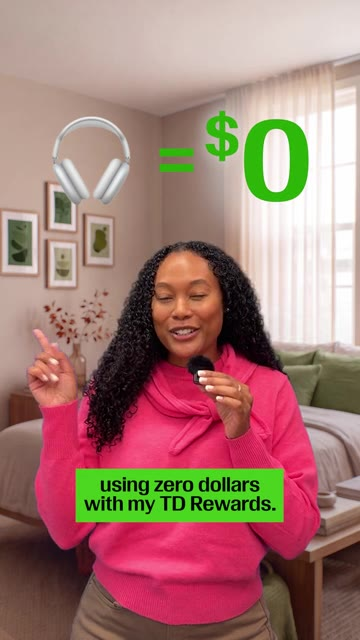
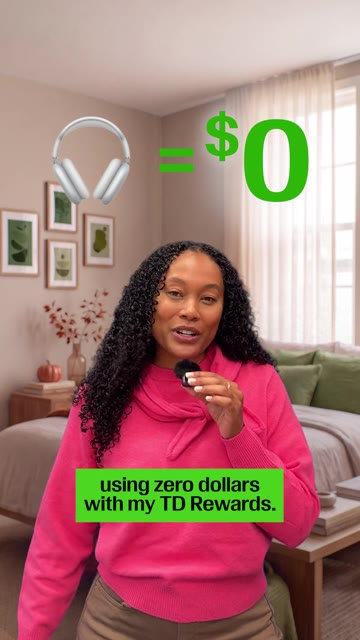
Reorder lead cards; let landscape thumbnails show full width; update Amazon thumbnail to open-eyes frame
Claude-Session: https://claude.ai/code/session_01Dv9JHbGgPAKQqDxBru1XCq

Changed region(s): [[0.0306, 0.375, 0.9167, 1.0]]

diff --git a/index.html b/index.html
@@ -131,33 +131,6 @@
     <div class="work-grid">
       <!-- Work samples. The order here controls the "All" view. data-category must match a filter above. -->
 
-      <article class="work-card work-card--visual" data-category="social">
-        <button class="work-card__open" aria-haspopup="dialog">
-          <span class="work-card__media"><img src="assets/work/td-social-payday-pup.jpg" alt="TD Bank Instagram post: a golden retriever beside a TD Store display with a green TD dog bowl" loading="lazy" /></span>
-          <span class="work-card__body">
-            <span class="work-card__tag">Social</span>
-            <h3 class="work-card__title">TFW it&rsquo;s a payday&hellip;</h3>
-            <p class="work-card__client">TD Bank</p>
-            <p class="work-card__teaser">
-              A brand-voice post that turns a small TD Store perk into a
-              scroll-stopping moment for dog people.
-            </p>
-            <span class="work-card__cue">Learn more →</span>
-          </span>
-        </button>
-
-        <template class="work-card__detail">
-          <figure class="detail__figure"><img src="assets/work/td-social-payday-pup.jpg" alt="TD Bank Instagram post: a golden retriever beside a TD Store display with a green TD dog bowl" /></figure>
-          <p class="detail__meta"><strong>Copywriting:</strong> Susan Rossman</p>
-          <p class="detail__meta"><strong>CD:</strong> Rob Beatson</p>
-          <p class="detail__meta"><strong>Design:</strong> Galina Gonopolsky-Vaisman</p>
-          <p class="detail__meta"><strong>Art Direction:</strong> Gina Comstock &amp; Mark Wills</p>
-          <hr class="detail__rule" />
-          <h4 class="detail__label">Caption</h4>
-          <p>TFW it&rsquo;s a payday&hellip; and your furry friend gets to make a withdrawal too! 🐾 💰 Treat your pup to a doggy biscuit the next time you&rsquo;re in a TD Store — they&rsquo;ve earned it!</p>
-        </template>
-      </article>
-
       <article class="work-card work-card--visual" data-category="print">
         <button class="work-card__open" aria-haspopup="dialog">
           <span class="work-card__media"><img src="assets/work/td-payday-vibes.jpg" alt="TD Bank &lsquo;Payday vibes.&rsquo; poster for TD Early Pay" loading="lazy" /></span>
@@ -186,74 +159,6 @@
           <p>With TD Early Pay, you get paid up to 2 business days early.</p>
           <h4 class="detail__label">Tagline</h4>
           <p class="detail__line">More human.</p>
-        </template>
-      </article>
-
-      <article class="work-card work-card--visual" data-category="script">
-        <button class="work-card__open" aria-haspopup="dialog">
-          <span class="work-card__media"><img src="assets/work/td-video-hbcu.jpg" alt="Video still of two HBCU students for a TD Bank social-impact film" loading="lazy" /></span>
-          <span class="work-card__body">
-            <span class="work-card__tag">Video</span>
-            <h3 class="work-card__title">HBCUs: Inspiring excellence in the classroom &mdash; and beyond</h3>
-            <p class="work-card__client">TD Bank</p>
-            <p class="work-card__teaser">
-              A film on why TD supports — and recruits from — Historically Black
-              Colleges and Universities.
-            </p>
-            <span class="work-card__cue">Learn more →</span>
-          </span>
-        </button>
-
-        <template class="work-card__detail">
-          <figure class="detail__figure"><img src="assets/work/td-video-hbcu.jpg" alt="Video still of two HBCU students for a TD Bank social-impact film" /></figure>
-          <p class="detail__meta"><strong>Copywriting:</strong> Susan Rossman</p>
-          <p class="detail__meta"><strong>Creative Direction:</strong> Swati Prasad, Rob Beatson</p>
-          <p class="detail__meta"><strong>Design:</strong> Sipha Say</p>
-          <p class="detail__meta"><strong>Video:</strong> Nick Choo, Gene Kang, Ben Marcus</p>
-          <hr class="detail__rule" />
-          <h4 class="detail__label">Title</h4>
-          <p class="detail__line">HBCUs: Inspiring excellence in the classroom &mdash; and beyond</p>
-          <h4 class="detail__label">Copy</h4>
-          <p>Every day, Historically Black Colleges and Universities set the stage for students like Damaal and Traquel. See firsthand why we continue to support&mdash;and recruit from&mdash;HBCUs across the country.</p>
-          <div class="detail__video">
-            <video controls preload="metadata" poster="assets/work/td-video-hbcu.jpg">
-              <source src="assets/work/hbcu-film.mp4" type="video/mp4" />
-              Your browser doesn&rsquo;t support embedded video.
-              <a href="assets/work/hbcu-film.mp4">Download the film</a> instead.
-            </video>
-          </div>
-        </template>
-      </article>
-
-      <article class="work-card work-card--visual" data-category="script">
-        <button class="work-card__open" aria-haspopup="dialog">
-          <span class="work-card__media"><img src="assets/work/td-video-complete-checking.jpg" alt="Still from TD Complete Checking online video: a graduate portrait with the line &lsquo;Here for all life&rsquo;s adventures.&rsquo;" loading="lazy" /></span>
-          <span class="work-card__body">
-            <span class="work-card__tag">Video</span>
-            <h3 class="work-card__title">Here for all life&rsquo;s adventures.</h3>
-            <p class="work-card__client">TD Bank</p>
-            <p class="work-card__teaser">
-              An online video that frames an everyday checking account around the
-              milestones it helps you reach.
-            </p>
-            <span class="work-card__cue">Learn more →</span>
-          </span>
-        </button>
-
-        <template class="work-card__detail">
-          <figure class="detail__figure"><img src="assets/work/td-video-complete-checking.jpg" alt="Still from TD Complete Checking online video: a graduate portrait with the line &lsquo;Here for all life&rsquo;s adventures.&rsquo;" /></figure>
-          <p class="detail__meta"><strong>Copywriting:</strong> Susan Rossman</p>
-          <p class="detail__meta"><strong>CD:</strong> Rob Beatson</p>
-          <p class="detail__meta"><strong>Design:</strong> Shane Walsh</p>
-          <p class="detail__meta"><strong>Art Direction:</strong> Gina Comstock &amp; Mark Wills</p>
-          <p class="detail__meta"><strong>Video:</strong> Nick Choo, Gene Kang</p>
-          <hr class="detail__rule" />
-          <h4 class="detail__label">On-screen</h4>
-          <p class="detail__line">Here for all life&rsquo;s adventures.</p>
-          <p>TD Complete Checking.</p>
-          <p class="detail__cta">
-            <a class="btn btn--primary" href="https://www.youtube.com/watch?v=YbxNKm-5KSM" target="_blank" rel="noopener">Watch the full video →</a>
-          </p>
         </template>
       </article>
 
@@ -320,45 +225,39 @@
         </template>
       </article>
 
-      <article class="work-card work-card--visual" data-category="web">
+      <article class="work-card work-card--visual" data-category="script">
         <button class="work-card__open" aria-haspopup="dialog">
-          <span class="work-card__media"><img src="assets/work/td-unexpectedly-human.jpg" alt="TD Bank &lsquo;Unexpectedly Human&rsquo; brand homepage — people matter most" loading="lazy" /></span>
+          <span class="work-card__media work-card__media--fit"><img src="assets/work/td-video-hbcu.jpg" alt="Video still of two HBCU students for a TD Bank social-impact film" loading="lazy" /></span>
           <span class="work-card__body">
-            <span class="work-card__tag">Web</span>
-            <h3 class="work-card__title">Unexpectedly Human</h3>
+            <span class="work-card__tag">Video</span>
+            <h3 class="work-card__title">HBCUs: Inspiring excellence in the classroom &mdash; and beyond</h3>
             <p class="work-card__client">TD Bank</p>
             <p class="work-card__teaser">
-              A redesigned brand homepage built around a single, un-bank-like
-              promise: that people matter most.
+              A film on why TD supports — and recruits from — Historically Black
+              Colleges and Universities.
             </p>
             <span class="work-card__cue">Learn more →</span>
           </span>
         </button>
 
         <template class="work-card__detail">
-          <figure class="detail__figure"><img src="assets/work/td-unexpectedly-human.jpg" alt="TD Bank &lsquo;Unexpectedly Human&rsquo; brand homepage — people matter most" /></figure>
+          <figure class="detail__figure"><img src="assets/work/td-video-hbcu.jpg" alt="Video still of two HBCU students for a TD Bank social-impact film" /></figure>
           <p class="detail__meta"><strong>Copywriting:</strong> Susan Rossman</p>
-          <p class="detail__meta"><strong>CD:</strong> Rob Beatson</p>
-          <p class="detail__meta"><strong>Design:</strong> Galina Gonopolsky-Vaisman</p>
-          <p class="detail__meta"><strong>Art Direction:</strong> Gina Comstock &amp; Mark Wills</p>
+          <p class="detail__meta"><strong>Creative Direction:</strong> Swati Prasad, Rob Beatson</p>
+          <p class="detail__meta"><strong>Design:</strong> Sipha Say</p>
+          <p class="detail__meta"><strong>Video:</strong> Nick Choo, Gene Kang, Ben Marcus</p>
           <hr class="detail__rule" />
-          <h4 class="detail__label">Hero</h4>
-          <p class="detail__line">Unexpectedly Human</p>
-          <p>It all comes down to this — people matter most.</p>
-          <h4 class="detail__label">The three pillars</h4>
-          <ul class="detail__list">
-            <li><strong>People Matter Most.</strong> The best in us starts with you.</li>
-            <li><strong>Strength &amp; Stability.</strong> Here for you, now and in the future.</li>
-            <li><strong>Innovation.</strong> Improving how you bank.</li>
-          </ul>
-          <h4 class="detail__label">About TD Bank</h4>
-          <p>Welcome to the human side of banking. Here, people matter most. So we&rsquo;re committed to going beyond what customers would expect from a bank.</p>
-          <h4 class="detail__label">Section intros</h4>
-          <ul class="detail__list">
-            <li><strong>Community.</strong> We love where we live and work, and it&rsquo;s why giving back comes naturally.</li>
-            <li><strong>Diversity &amp; Inclusion.</strong> Different voices. Different perspectives. Let&rsquo;s create a more accepting and inclusive world.</li>
-            <li><strong>Sustainability.</strong> See how sustainability plays a role in our business practices.</li>
-          </ul>
+          <h4 class="detail__label">Title</h4>
+          <p class="detail__line">HBCUs: Inspiring excellence in the classroom &mdash; and beyond</p>
+          <h4 class="detail__label">Copy</h4>
+          <p>Every day, Historically Black Colleges and Universities set the stage for students like Damaal and Traquel. See firsthand why we continue to support&mdash;and recruit from&mdash;HBCUs across the country.</p>
+          <div class="detail__video">
+            <video controls preload="metadata" poster="assets/work/td-video-hbcu.jpg">
+              <source src="assets/work/hbcu-film.mp4" type="video/mp4" />
+              Your browser doesn&rsquo;t support embedded video.
+              <a href="assets/work/hbcu-film.mp4">Download the film</a> instead.
+            </video>
+          </div>
         </template>
       </article>
 
@@ -429,9 +328,110 @@
         </template>
       </article>
 
+      <article class="work-card work-card--visual" data-category="social">
+        <button class="work-card__open" aria-haspopup="dialog">
+          <span class="work-card__media"><img src="assets/work/td-social-payday-pup.jpg" alt="TD Bank Instagram post: a golden retriever beside a TD Store display with a green TD dog bowl" loading="lazy" /></span>
+          <span class="work-card__body">
+            <span class="work-card__tag">Social</span>
+            <h3 class="work-card__title">TFW it&rsquo;s a payday&hellip;</h3>
+            <p class="work-card__client">TD Bank</p>
+            <p class="work-card__teaser">
+              A brand-voice post that turns a small TD Store perk into a
+              scroll-stopping moment for dog people.
+            </p>
+            <span class="work-card__cue">Learn more →</span>
+          </span>
+        </button>
+
+        <template class="work-card__detail">
+          <figure class="detail__figure"><img src="assets/work/td-social-payday-pup.jpg" alt="TD Bank Instagram post: a golden retriever beside a TD Store display with a green TD dog bowl" /></figure>
+          <p class="detail__meta"><strong>Copywriting:</strong> Susan Rossman</p>
+          <p class="detail__meta"><strong>CD:</strong> Rob Beatson</p>
+          <p class="detail__meta"><strong>Design:</strong> Galina Gonopolsky-Vaisman</p>
+          <p class="detail__meta"><strong>Art Direction:</strong> Gina Comstock &amp; Mark Wills</p>
+          <hr class="detail__rule" />
+          <h4 class="detail__label">Caption</h4>
+          <p>TFW it&rsquo;s a payday&hellip; and your furry friend gets to make a withdrawal too! 🐾 💰 Treat your pup to a doggy biscuit the next time you&rsquo;re in a TD Store — they&rsquo;ve earned it!</p>
+        </template>
+      </article>
+
       <article class="work-card work-card--visual" data-category="script">
         <button class="work-card__open" aria-haspopup="dialog">
-          <span class="work-card__media"><img src="assets/work/td-video-grand-concourse.jpg" alt="Aerial video still of the 425 Grand Concourse tower in the Bronx, &lsquo;shared by TD Bank&rsquo;" loading="lazy" /></span>
+          <span class="work-card__media work-card__media--fit"><img src="assets/work/td-video-complete-checking.jpg" alt="Still from TD Complete Checking online video: a graduate portrait with the line &lsquo;Here for all life&rsquo;s adventures.&rsquo;" loading="lazy" /></span>
+          <span class="work-card__body">
+            <span class="work-card__tag">Video</span>
+            <h3 class="work-card__title">Here for all life&rsquo;s adventures.</h3>
+            <p class="work-card__client">TD Bank</p>
+            <p class="work-card__teaser">
+              An online video that frames an everyday checking account around the
+              milestones it helps you reach.
+            </p>
+            <span class="work-card__cue">Learn more →</span>
+          </span>
+        </button>
+
+        <template class="work-card__detail">
+          <figure class="detail__figure"><img src="assets/work/td-video-complete-checking.jpg" alt="Still from TD Complete Checking online video: a graduate portrait with the line &lsquo;Here for all life&rsquo;s adventures.&rsquo;" /></figure>
+          <p class="detail__meta"><strong>Copywriting:</strong> Susan Rossman</p>
+          <p class="detail__meta"><strong>CD:</strong> Rob Beatson</p>
+          <p class="detail__meta"><strong>Design:</strong> Shane Walsh</p>
+          <p class="detail__meta"><strong>Art Direction:</strong> Gina Comstock &amp; Mark Wills</p>
+          <p class="detail__meta"><strong>Video:</strong> Nick Choo, Gene Kang</p>
+          <hr class="detail__rule" />
+          <h4 class="detail__label">On-screen</h4>
+          <p class="detail__line">Here for all life&rsquo;s adventures.</p>
+          <p>TD Complete Checking.</p>
+          <p class="detail__cta">
+            <a class="btn btn--primary" href="https://www.youtube.com/watch?v=YbxNKm-5KSM" target="_blank" rel="noopener">Watch the full video →</a>
+          </p>
+        </template>
+      </article>
+
+      <article class="work-card work-card--visual" data-category="web">
+        <button class="work-card__open" aria-haspopup="dialog">
+          <span class="work-card__media"><img src="assets/work/td-unexpectedly-human.jpg" alt="TD Bank &lsquo;Unexpectedly Human&rsquo; brand homepage — people matter most" loading="lazy" /></span>
+          <span class="work-card__body">
+            <span class="work-card__tag">Web</span>
+            <h3 class="work-card__title">Unexpectedly Human</h3>
+            <p class="work-card__client">TD Bank</p>
+            <p class="work-card__teaser">
+              A redesigned brand homepage built around a single, un-bank-like
+              promise: that people matter most.
+            </p>
+            <span class="work-card__cue">Learn more →</span>
+          </span>
+        </button>
+
+        <template class="work-card__detail">
+          <figure class="detail__figure"><img src="assets/work/td-unexpectedly-human.jpg" alt="TD Bank &lsquo;Unexpectedly Human&rsquo; brand homepage — people matter most" /></figure>
+          <p class="detail__meta"><strong>Copywriting:</strong> Susan Rossman</p>
+          <p class="detail__meta"><strong>CD:</strong> Rob Beatson</p>
+          <p class="detail__meta"><strong>Design:</strong> Galina Gonopolsky-Vaisman</p>
+          <p class="detail__meta"><strong>Art Direction:</strong> Gina Comstock &amp; Mark Wills</p>
+          <hr class="detail__rule" />
+          <h4 class="detail__label">Hero</h4>
+          <p class="detail__line">Unexpectedly Human</p>
+          <p>It all comes down to this — people matter most.</p>
+          <h4 class="detail__label">The three pillars</h4>
+          <ul class="detail__list">
+            <li><strong>People Matter Most.</strong> The best in us starts with you.</li>
+            <li><strong>Strength &amp; Stability.</strong> Here for you, now and in the future.</li>
+            <li><strong>Innovation.</strong> Improving how you bank.</li>
+          </ul>
+          <h4 class="detail__label">About TD Bank</h4>
+          <p>Welcome to the human side of banking. Here, people matter most. So we&rsquo;re committed to going beyond what customers would expect from a bank.</p>
+          <h4 class="detail__label">Section intros</h4>
+          <ul class="detail__list">
+            <li><strong>Community.</strong> We love where we live and work, and it&rsquo;s why giving back comes naturally.</li>
+            <li><strong>Diversity &amp; Inclusion.</strong> Different voices. Different perspectives. Let&rsquo;s create a more accepting and inclusive world.</li>
+            <li><strong>Sustainability.</strong> See how sustainability plays a role in our business practices.</li>
+          </ul>
+        </template>
+      </article>
+
+      <article class="work-card work-card--visual" data-category="script">
+        <button class="work-card__open" aria-haspopup="dialog">
+          <span class="work-card__media work-card__media--fit"><img src="assets/work/td-video-grand-concourse.jpg" alt="Aerial video still of the 425 Grand Concourse tower in the Bronx, &lsquo;shared by TD Bank&rsquo;" loading="lazy" /></span>
           <span class="work-card__body">
             <span class="work-card__tag">Video</span>
             <h3 class="work-card__title">425 Grand Concourse</h3>
@@ -612,7 +612,7 @@
 
       <article class="work-card work-card--visual" data-category="script">
         <button class="work-card__open" aria-haspopup="dialog">
-          <span class="work-card__media"><img src="assets/work/td-community-impact-plan.jpg" alt="Title card from TD Bank&rsquo;s Community Impact Plan brand film" loading="lazy" /></span>
+          <span class="work-card__media work-card__media--fit"><img src="assets/work/td-community-impact-plan.jpg" alt="Title card from TD Bank&rsquo;s Community Impact Plan brand film" loading="lazy" /></span>
           <span class="work-card__body">
             <span class="work-card__tag">Video</span>
             <h3 class="work-card__title">Community Impact Plan</h3>
@@ -671,7 +671,7 @@
 
       <article class="work-card work-card--visual" data-category="print">
         <button class="work-card__open" aria-haspopup="dialog">
-          <span class="work-card__media"><img src="assets/work/ibx-newmovers.jpg" alt="Independence Blue Cross &lsquo;Welcome to the neighborhood!&rsquo; new-movers direct mail" loading="lazy" /></span>
+          <span class="work-card__media work-card__media--fit"><img src="assets/work/ibx-newmovers.jpg" alt="Independence Blue Cross &lsquo;Welcome to the neighborhood!&rsquo; new-movers direct mail" loading="lazy" /></span>
           <span class="work-card__body">
             <span class="work-card__tag">Print</span>
             <h3 class="work-card__title">New movers postcard</h3>

diff --git a/styles/style.css b/styles/style.css
@@ -309,6 +309,8 @@ main > section { max-width: var(--wrap); margin: 0 auto; padding: var(--section-
 .work-card--visual:hover .work-card__media img { transform: scale(1.03); }
 /* Center the crop when the subject sits in the middle of a tall image */
 .work-card__media--center img { object-position: center center; }
+/* Show the whole (landscape) image without cropping the sides */
+.work-card__media--fit img { object-fit: contain; object-position: center; }
 
 /* Full creative shown inside the reading panel */
 .detail__figure { margin: 0 0 1.4rem; }
